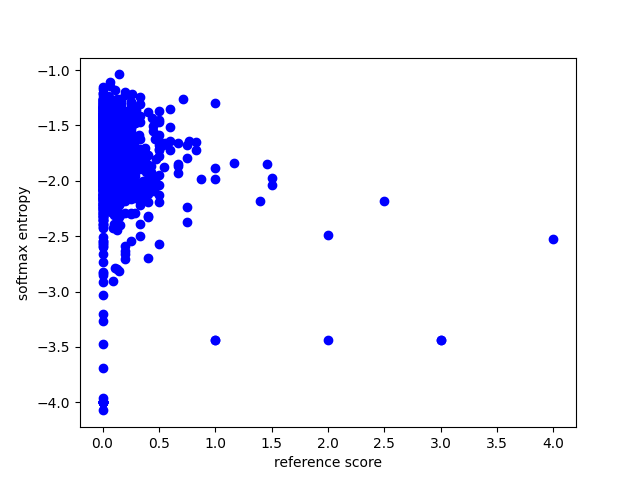
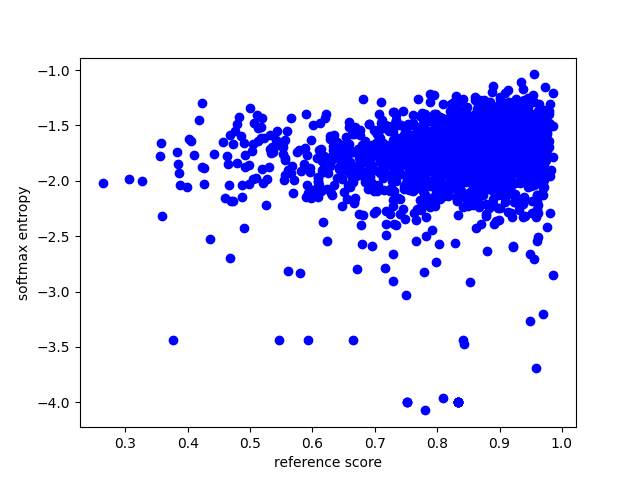
fix shit

diff --git a/code/plotting.py b/code/plotting.py
@@ -151,8 +151,8 @@ if input != "ref.txt":
             lines = inpfile.readlines()
             cases = [l.split(",") for l in lines]
             inps = [[float(j) for j in i.split("\t")] for i in lines]
-            wers = [i[-3] for i in inps]
-            comets = [i[-2] for i in inps]
+            wers = [i[-2] for i in inps]
+            comets = [i[-3] for i in inps]
             uniref = [i[-1] for i in inps]
 
             genprop = [i[0] for i in inps]
